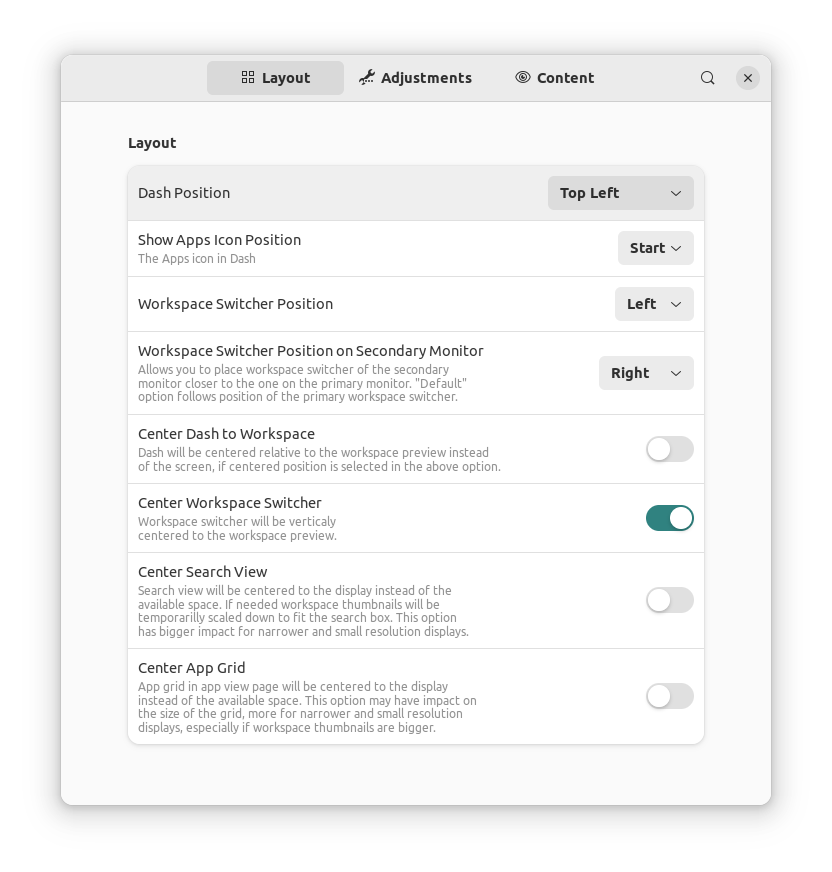
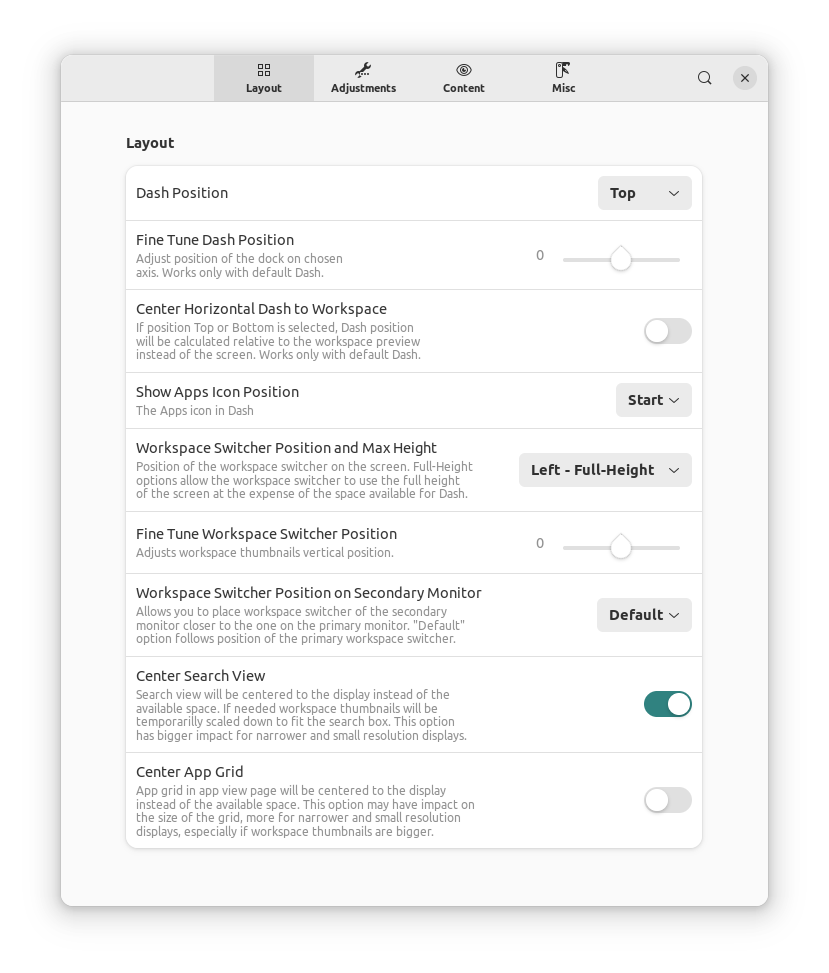
update: README, screenshots

diff --git a/README.md b/README.md
@@ -1,7 +1,7 @@
 # Vertical Workspaces
 
 GNOME Shell extension that changes the horizontal layout of workspaces to vertical and adds customization of the Activities overview layout. See options on screenshots below.
-This extension does NOT offer vertical orientation of Dash but is compatible with *Dash to Dock* / *Ubuntu Dock* extensions and their forks, which support the vertical orientation.
+This extension also offers vertical Dash orientation and is also compatible with *Dash to Dock* / *Ubuntu Dock* extensions and their forks.
 
 Supported GNOME versions: 40, 41, 42.
 
@@ -11,6 +11,7 @@ Supported GNOME versions: 40, 41, 42.
 ![Settings window](screenshots/screenshot.png)
 ![Settings window](screenshots/screenshot1.png)
 ![Settings window](screenshots/screenshot2.png)
+![Settings window](screenshots/screenshot3.png)
 
 ## Installation
 
